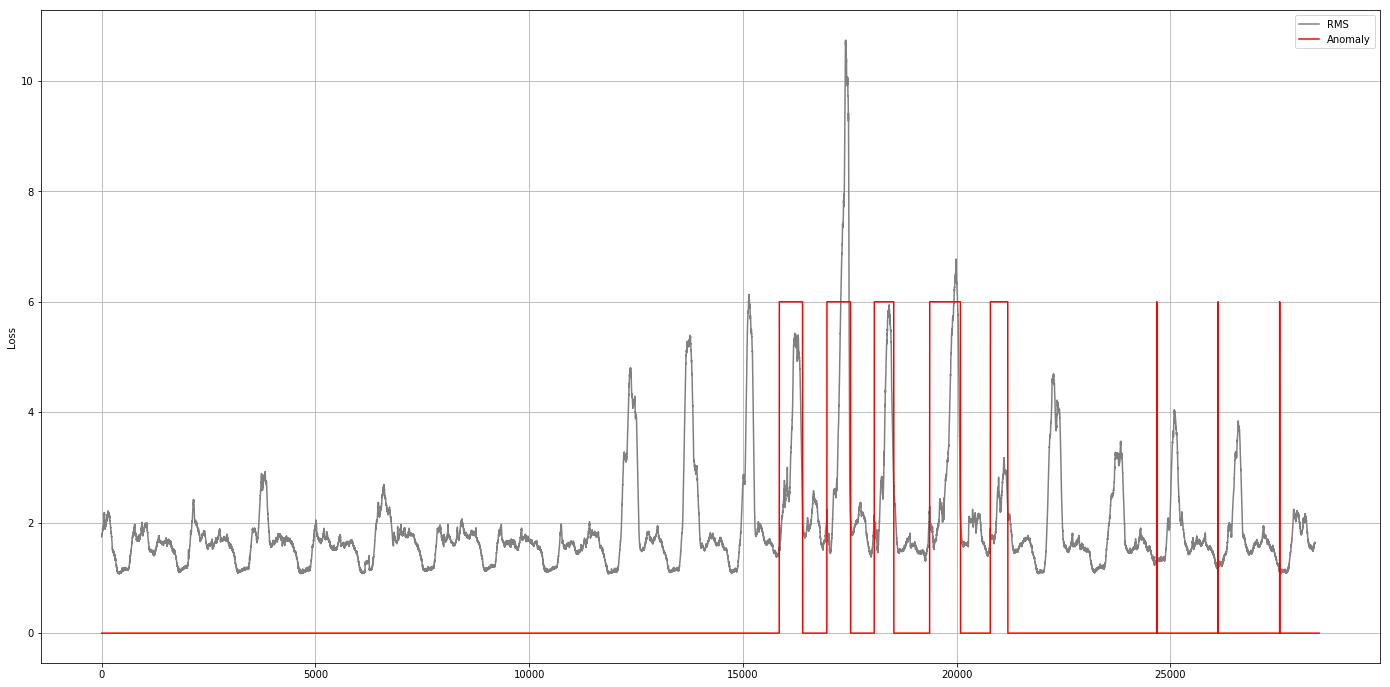
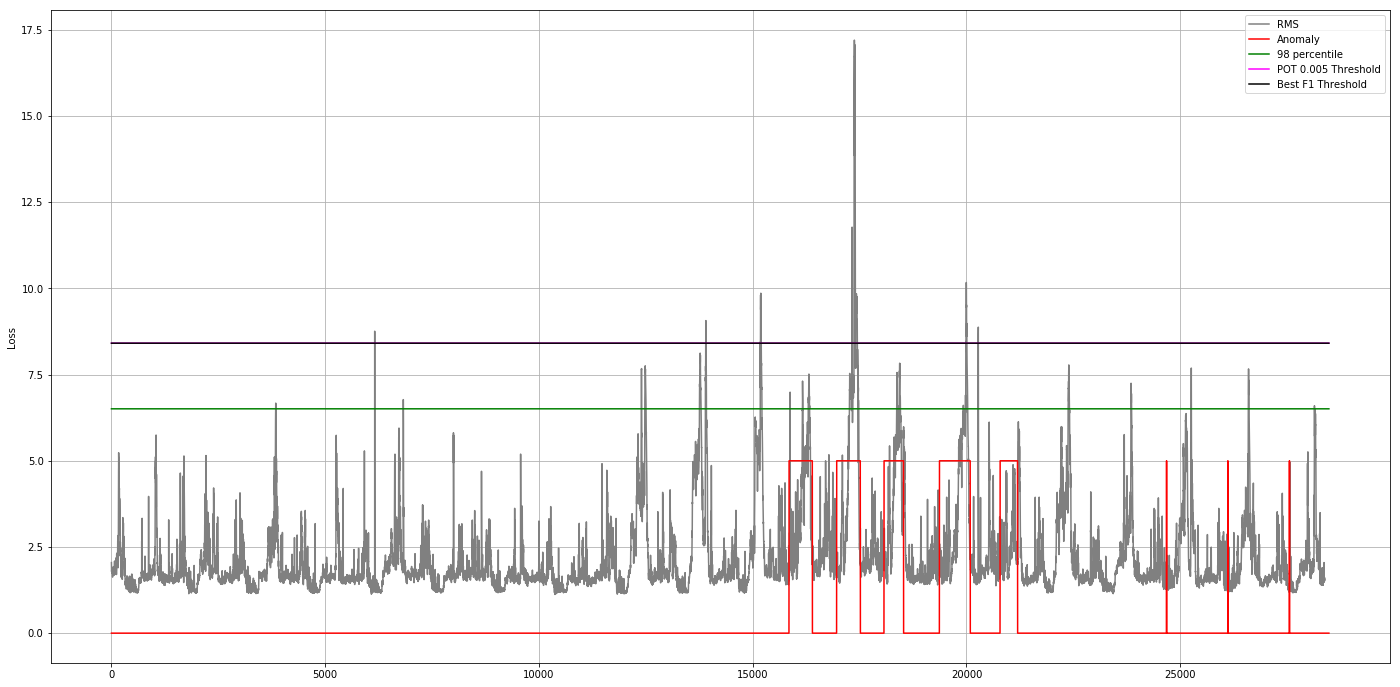
BOTH mode, fixes

diff --git a/model.py b/model.py
@@ -443,7 +443,8 @@ class MtadGat(object):
 
     #7). inference score
     #[A, n/w, k/m] --> [A, k/m]
-    self._reconstruction_anomaly_probability = -tf.reduce_sum(tf.math.log(feature_probability + tf.constant(1e-35, dtype=tf.float32)), axis=1, keepdims=False)
+    #self._reconstruction_anomaly_probability = -tf.reduce_sum(tf.math.log(feature_probability + tf.constant(1e-35, dtype=tf.float32)), axis=1, keepdims=False)
+    self._reconstruction_anomaly_probability = -tf.math.log(feature_probability[:, -1, :] + tf.constant(1e-35, dtype=tf.float32))
 
     #[A, k/m --> [A, k/m]
     if run_mode == 'FORECASTING' or run_mode == 'BOTH':

diff --git a/README.md b/README.md
@@ -3,25 +3,21 @@ Implementation of MTAD-GAT: Multivariate Time-series Anomaly Detection via Graph
 
 https://arxiv.org/pdf/2009.02040.pdf
 
-Other papers
-
-N/A
-
 Notes:
 
-this is draft. both forecasting and reconstraction modes are trainable separately. forecasting only gives good results, reconstruction only is not as good as i see for now. combined training works, but i did not do it yet.
+- this can be trained in forecasting, reconstracting and both modes. Forecasting only gives good results.
 
-- run_mode flag to specify to train or predict in FORECASTING, RECONSTRUCTING or BOTH . if mode is trained in FORECASTING , it does not make any sense to predict other than FORECASTING and same about other modes
+- run_mode flag to specify to train or predict in FORECASTING, RECONSTRUCTING or BOTH. if mode is trained in FORECASTING , it does not make any sense to predict other than FORECASTING and same about other modes!
 
-- clip gradients is set to 0.1 and learning rate 5e-6
+- clip gradients is set to 0.1 and learning rate 5e-6. You can start at 1e-5 and later reduce to 1e-6.
 
 - d3 is 18, it is kind of half of 38 features what is of SMD
 
-- reconstruction pdf taken and used for every time point in a time series, not just last one
+- reconstruction pdf taken and used for every time point in a time series for training. Inference - only last item is used
 
 - if reconstruction, anomaly log pdf is -reconstruction log pdf. it is not 1 - pdf
 
-- to calculate combined score , anomaly log pdf is calculated as explaned above. both forecasting  square difference and reconstruction anomaly pdf are scaled to a range 0-1 and features are summed. gamma can be used to give more weight to forecasting or reconstracting. combined score can be used to show which feature caused anomaly the most. 
+- to calculate combined score , anomaly log pdf is calculated as explaned above. both forecasting square difference and reconstruction anomaly pdf are scaled to a range 0-1 and features are summed. gamma can be used to give more weight to forecasting or reconstracting. combined score can be used to show which feature caused anomaly the most. 
 
 - final score is total of all feature scores. this is compared against threshold
 
@@ -36,6 +32,13 @@ this is draft. both forecasting and reconstraction modes are trainable separatel
 - I am discussing SMD only, but MSL and SMAP should be used as well
 
 
+Future experiments:
+
+- bottleneck on VAE is 18 considering SMD 38 features. Different value can be experimented with
+
+- training often gets into NaN cuased by backptopagation. I just restart in a loop. Gradient clipping and learning rate helps. May be some optimizer parameters could help further
+
+
 Training steps:
 
 1. Download ServerMachineDataset from https://github.com/NetManAIOps/OmniAnomaly
@@ -46,9 +49,9 @@ Put ServerMachineDataset here at the root of the
 python prepare_data.py --files_path=ServerMachineDataset/train --tfrecords_file=gs://anomaly_detection/mtad_tf/data/train/{}.tfrecords
 python prepare_data.py --files_path=ServerMachineDatasettest --label_path=ServerMachineDataset/test_label --tfrecords_file=gs://anomaly_detection/mtad_tf/data/test/{}.tfrecords
 
-3. Decide the mode of the model. Train model for each machine dataset, 28 of them. Farecasting seems 30k steps works. RECONSTRUCTING - it took 300k. BOTH, I did not do it yet. Models sometimes deviate to NaN during backpropagation, so I just restart it.
+3. Decide the mode of the model. Train model for each machine dataset, 28 of them. Farecasting seems 30k steps works. RECONSTRUCTING and BOTH  - it took 300k. Models sometimes deviate to NaN during backpropagation, so I just restart it.
 
-See loss for FORECASTING and RECONSTRACTING in samples folder
+See losses in samples folder
 
 for c in {1..100}; do echo $c; time python training.py --action=TRAIN --train_file=gs://anomaly_detection/mtad_gat/data/train/machine-1-1.tfrecords --output_dir=gs://anomaly_detection/mtad_gat/output/machine-1-1-fore --run_mode=FORECASTING --num_train_steps=30000; done
 
@@ -58,7 +61,7 @@ for c in {1..100}; do echo $c; time python training.py --action=TRAIN --train_fi
 
 4. Produce scores file - inference_score.csv. Use this file to calculate calculate threshold using POT
 
-See graphs for machine-1-1 for FORECASTING and RECONSTRACTING in samples folder
+See graphs in samples folder
 
 python training.py --action=PREDICT --test_file=gs://anomaly_detection/mtad_gat/data/test/machine-1-1.tfrecords --output_dir=gs://anomaly_detection/mtad_gat/output/machine-1-1-fore --prediction_task=inference_score --run_mode=FORECASTING
 
@@ -73,11 +76,9 @@ python training.py --action=PREDICT --test_file=gs://anomaly_detection/mtad_gat/
 
 Anomaly Evaluation
 
-I do not use Estimator EVAL to do this since I use an adjustment procedure. I use this same simple omnianomaly approach. If we predicted anomaly and it is within some anomaly segment, whole segment becomes correctly predicted. I do not use a prediction latency (delta) value as in some other papers. Also, I think practically, if we flagged anomaly earlier compare to actual anomaly label, it could be considered hit maybe using some delta as well. I did not do this way here. Please see samples folder for evaluations for machine dataset 1-1, 1-2 and 1-3
+I do not use Estimator EVAL to do this since I use an adjustment procedure. I use this same simple omnianomaly approach. If we predicted anomaly and it is within some anomaly segment, whole segment becomes correctly predicted. I do not use a prediction latency (delta) value as in some other papers. Also, I think practically, if we flagged anomaly earlier compare to actual anomaly label, it could be considered hit maybe using some delta as well. I did not do this way here. Please see samples folder for evaluation metrics for machine-1-1-{fore|reco|both}.results in samples folder
 
-You must provide your threshold values
-
-See evaluation metrics for machine-1-1 for FORECASTING in samples folder
+You must provide your own different threshold values
 
 python training.py --action=PREDICT --test_file=gs://anomaly_detection/mtad_gat/data/test/machine-1-1.tfrecords --output_dir=gs://anomaly_detection/mtad_tf/output/machine-1-1-fore --threshold=1.5547085 --prediction_task=EVALUATE --run_mode=FORECASTING
 
